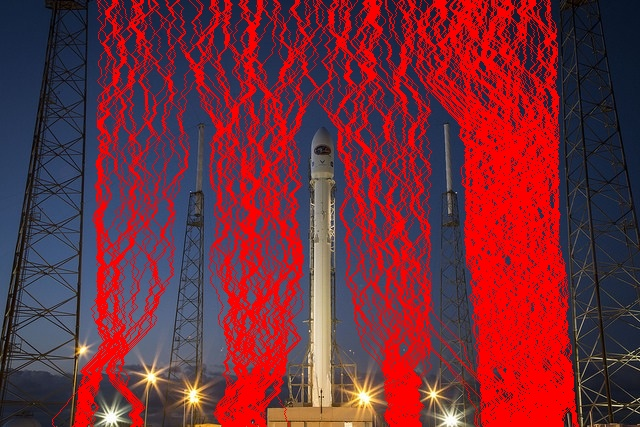
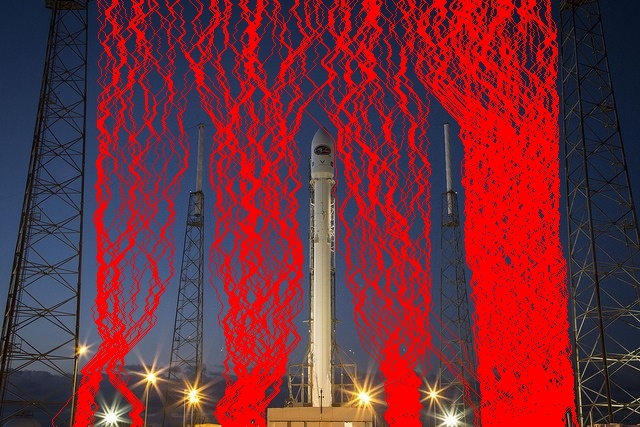
replace the dog function with the custom made one

diff --git a/part3/seam_helper_functions.py b/part3/seam_helper_functions.py
@@ -12,10 +12,9 @@ images_dir = parent_folder_dir / "starter_pack" / "images" / "part3_seams"
 sys.path.append(str(utils_dir))
 sys.path.append(str(images_dir))
 # stting up working directories to make sure code runs from anywhere
- 
 
 from utils import load_image, save_image, show
-from part1_utils import gradient_maps
+from part1_utils import gradient_maps, dog_filters, auto_threshold
 
 def get_image_channels(img):
     """Return the 3 channels of the image """
@@ -217,20 +216,20 @@ def resize_subsample(img, new_size):
     cols = (np.arange(new_w) * W / new_w).astype(int)   # first column of each block
     return img[rows][:, cols]
 
-def get_finite_diff_energy(img):
-    """Sum over channels of |dI/dx| + |dI/dy|."""
-    energy = 0
-    for ch in get_image_channels(img):
-        gy, gx = np.gradient(ch.astype(np.float64))
-        energy = energy + np.abs(gx) + np.abs(gy)
-    return energy
+def get_dog_energy(img, sigma=1.0, rel=0.25):
 
-def get_dog_energy(img, sigma=1.0, k=1.6):
-    """Sum over channels of |G(sigma) * I - G(k*sigma) * I|."""
-    energy = 0
-    for ch in get_image_channels(img):
-        ch = ch.astype(np.float64)
-        energy = energy + np.abs(_gaussian_blur(ch, sigma) - _gaussian_blur(ch, k * sigma))
+    img_channels = get_image_channels(img)
+
+    edges = []
+    for channel in img_channels:
+        G, DoGx, DoGy = dog_filters(sigma)
+        margin = G.shape[0] // 2 + 2
+        gx, gy, mag = gradient_maps(channel, DoGx, DoGy)  # one convolution per DoG filter
+        thr = auto_threshold(mag, margin, rel)
+        edges.append((mag > thr).astype(np.float64))
+
+    energy = np.array(sum(im.astype(np.float64) for im in edges))
+
     return energy
 
 
@@ -290,8 +289,8 @@ if __name__ == "__main__":
         img = load_image(images_dir / name)
 
         new_dim = (img.shape[0], int(img.shape[1] * 0.7))
-        finit_diff_energy = get_finite_diff_energy(img)
-        dog_energy = get_dog_energy(img)
+        finit_diff_energy = get_energy_grad_mag(img)
+        dog_energy = get_dog_energy(img[:,:,0])
         energy = dog_energy
         removed_seams, seam_carved_img = seam_carve(energy, img, new_dim, energy_fn=get_energy_grad_mag)
         img_vis = draw_removed_seams(removed_seams, img, color=(255, 0, 0))
